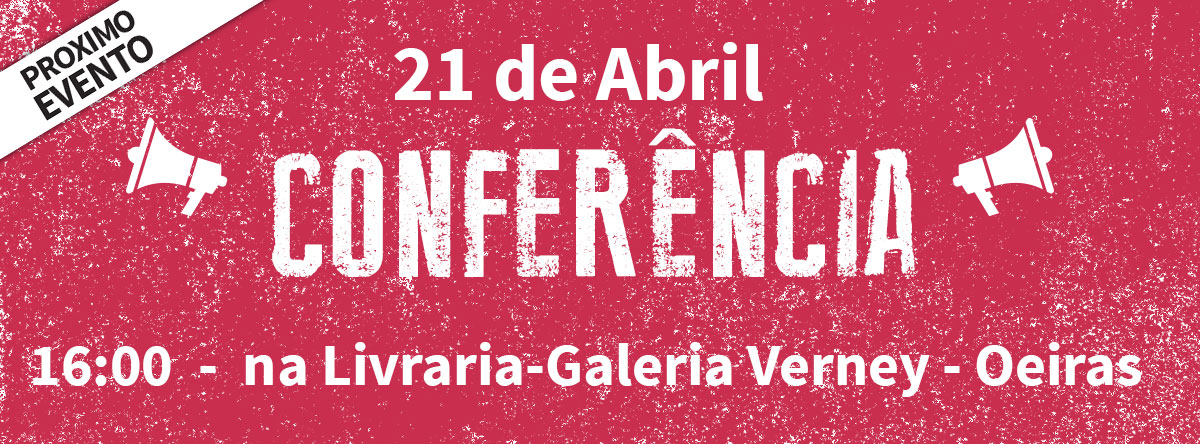
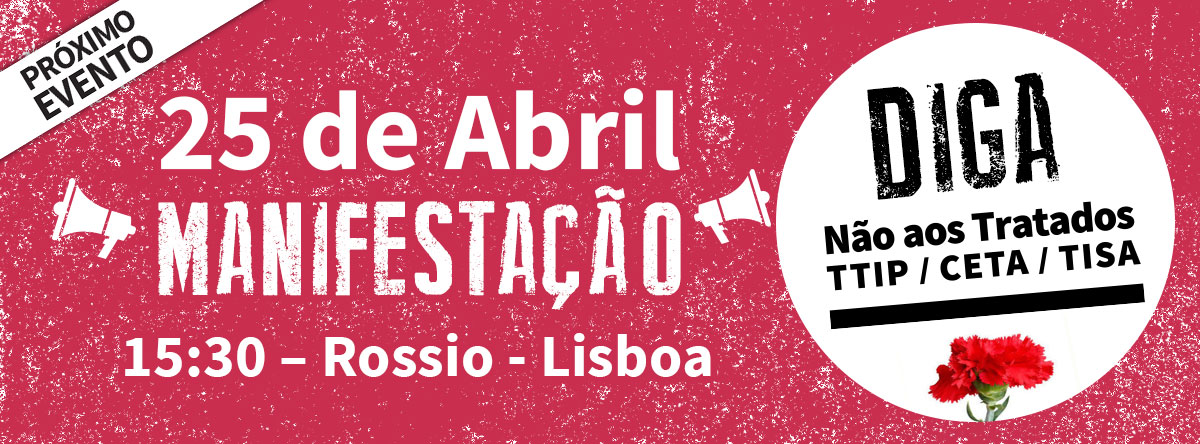
imhp

diff --git a/page-home.php b/page-home.php
@@ -10,7 +10,7 @@
 					<!-- Banner -->
 						<section id="banner">
 
-              <a href="https://www.nao-ao-ttip.pt/conversa-21042016-as-1600-oeiras/"></a>
+              <a href="https://www.nao-ao-ttip.pt/manifestacao-25042016-as-1500-no-rossio-lisboa/"></a>
 							<!--<header style="color: transparent; background-color: transparent;">
 								<h2 style="color: transparent;">Não ao Tratado Transatlântico</h2>
 								<p style="color: transparent;">Plataforma portuguesa para análise crítica ao TTIP</p>
